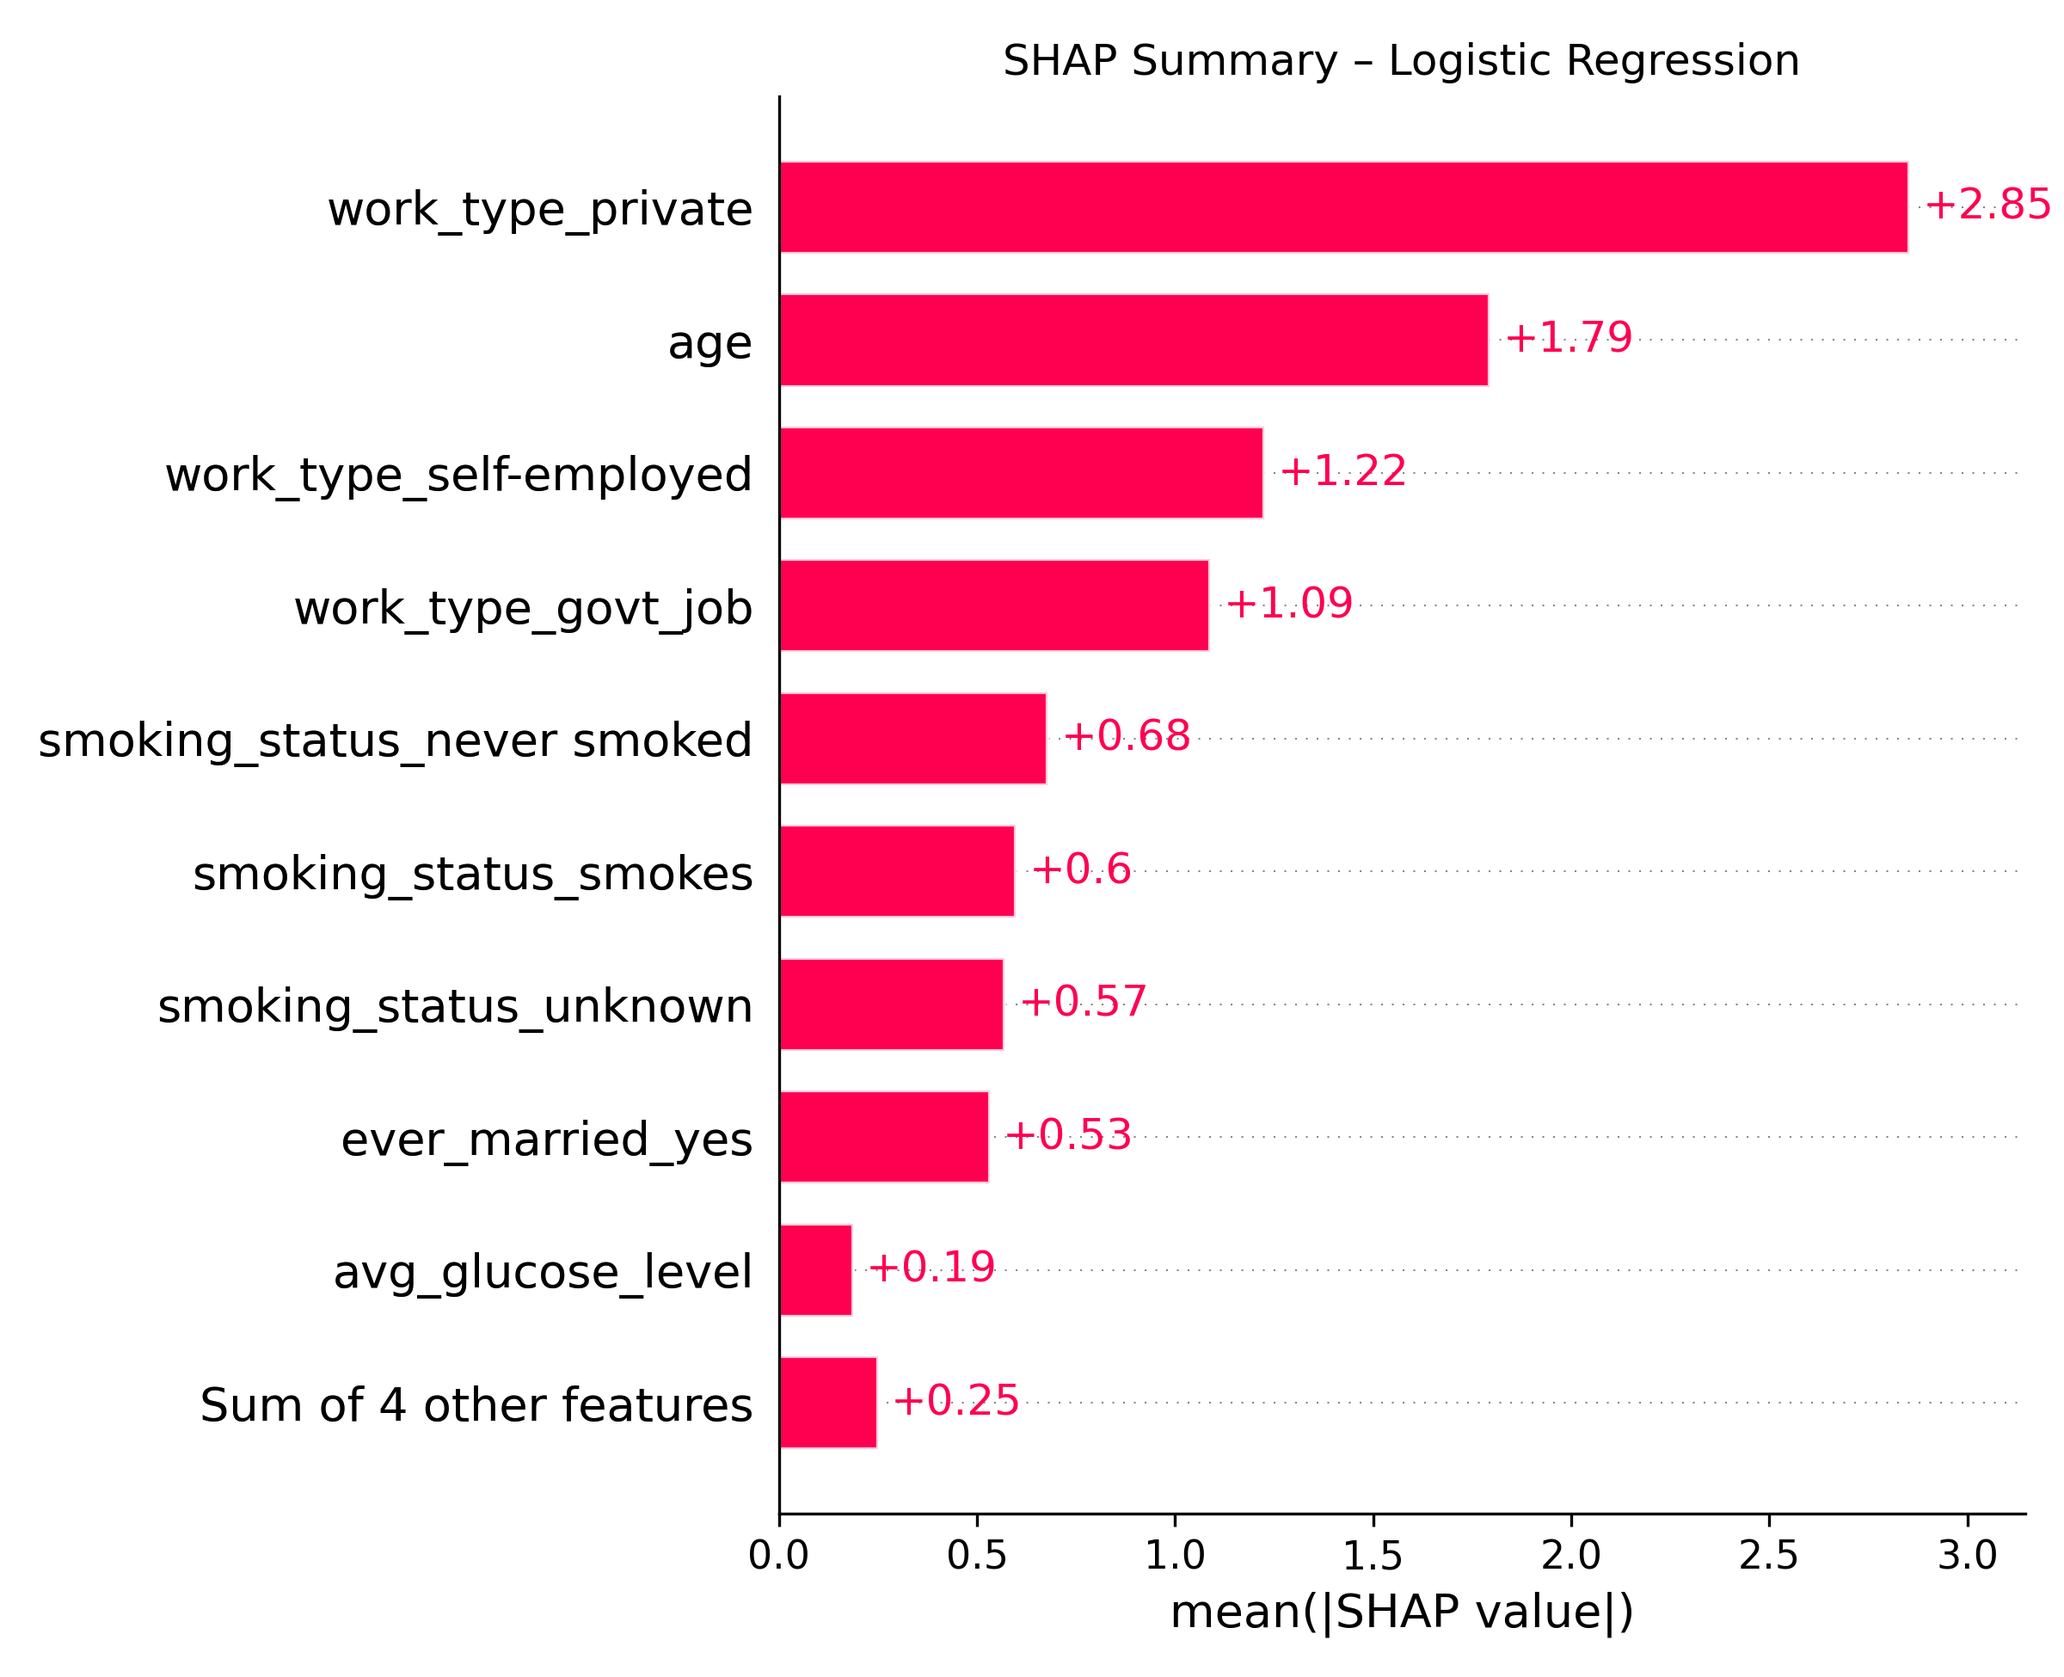
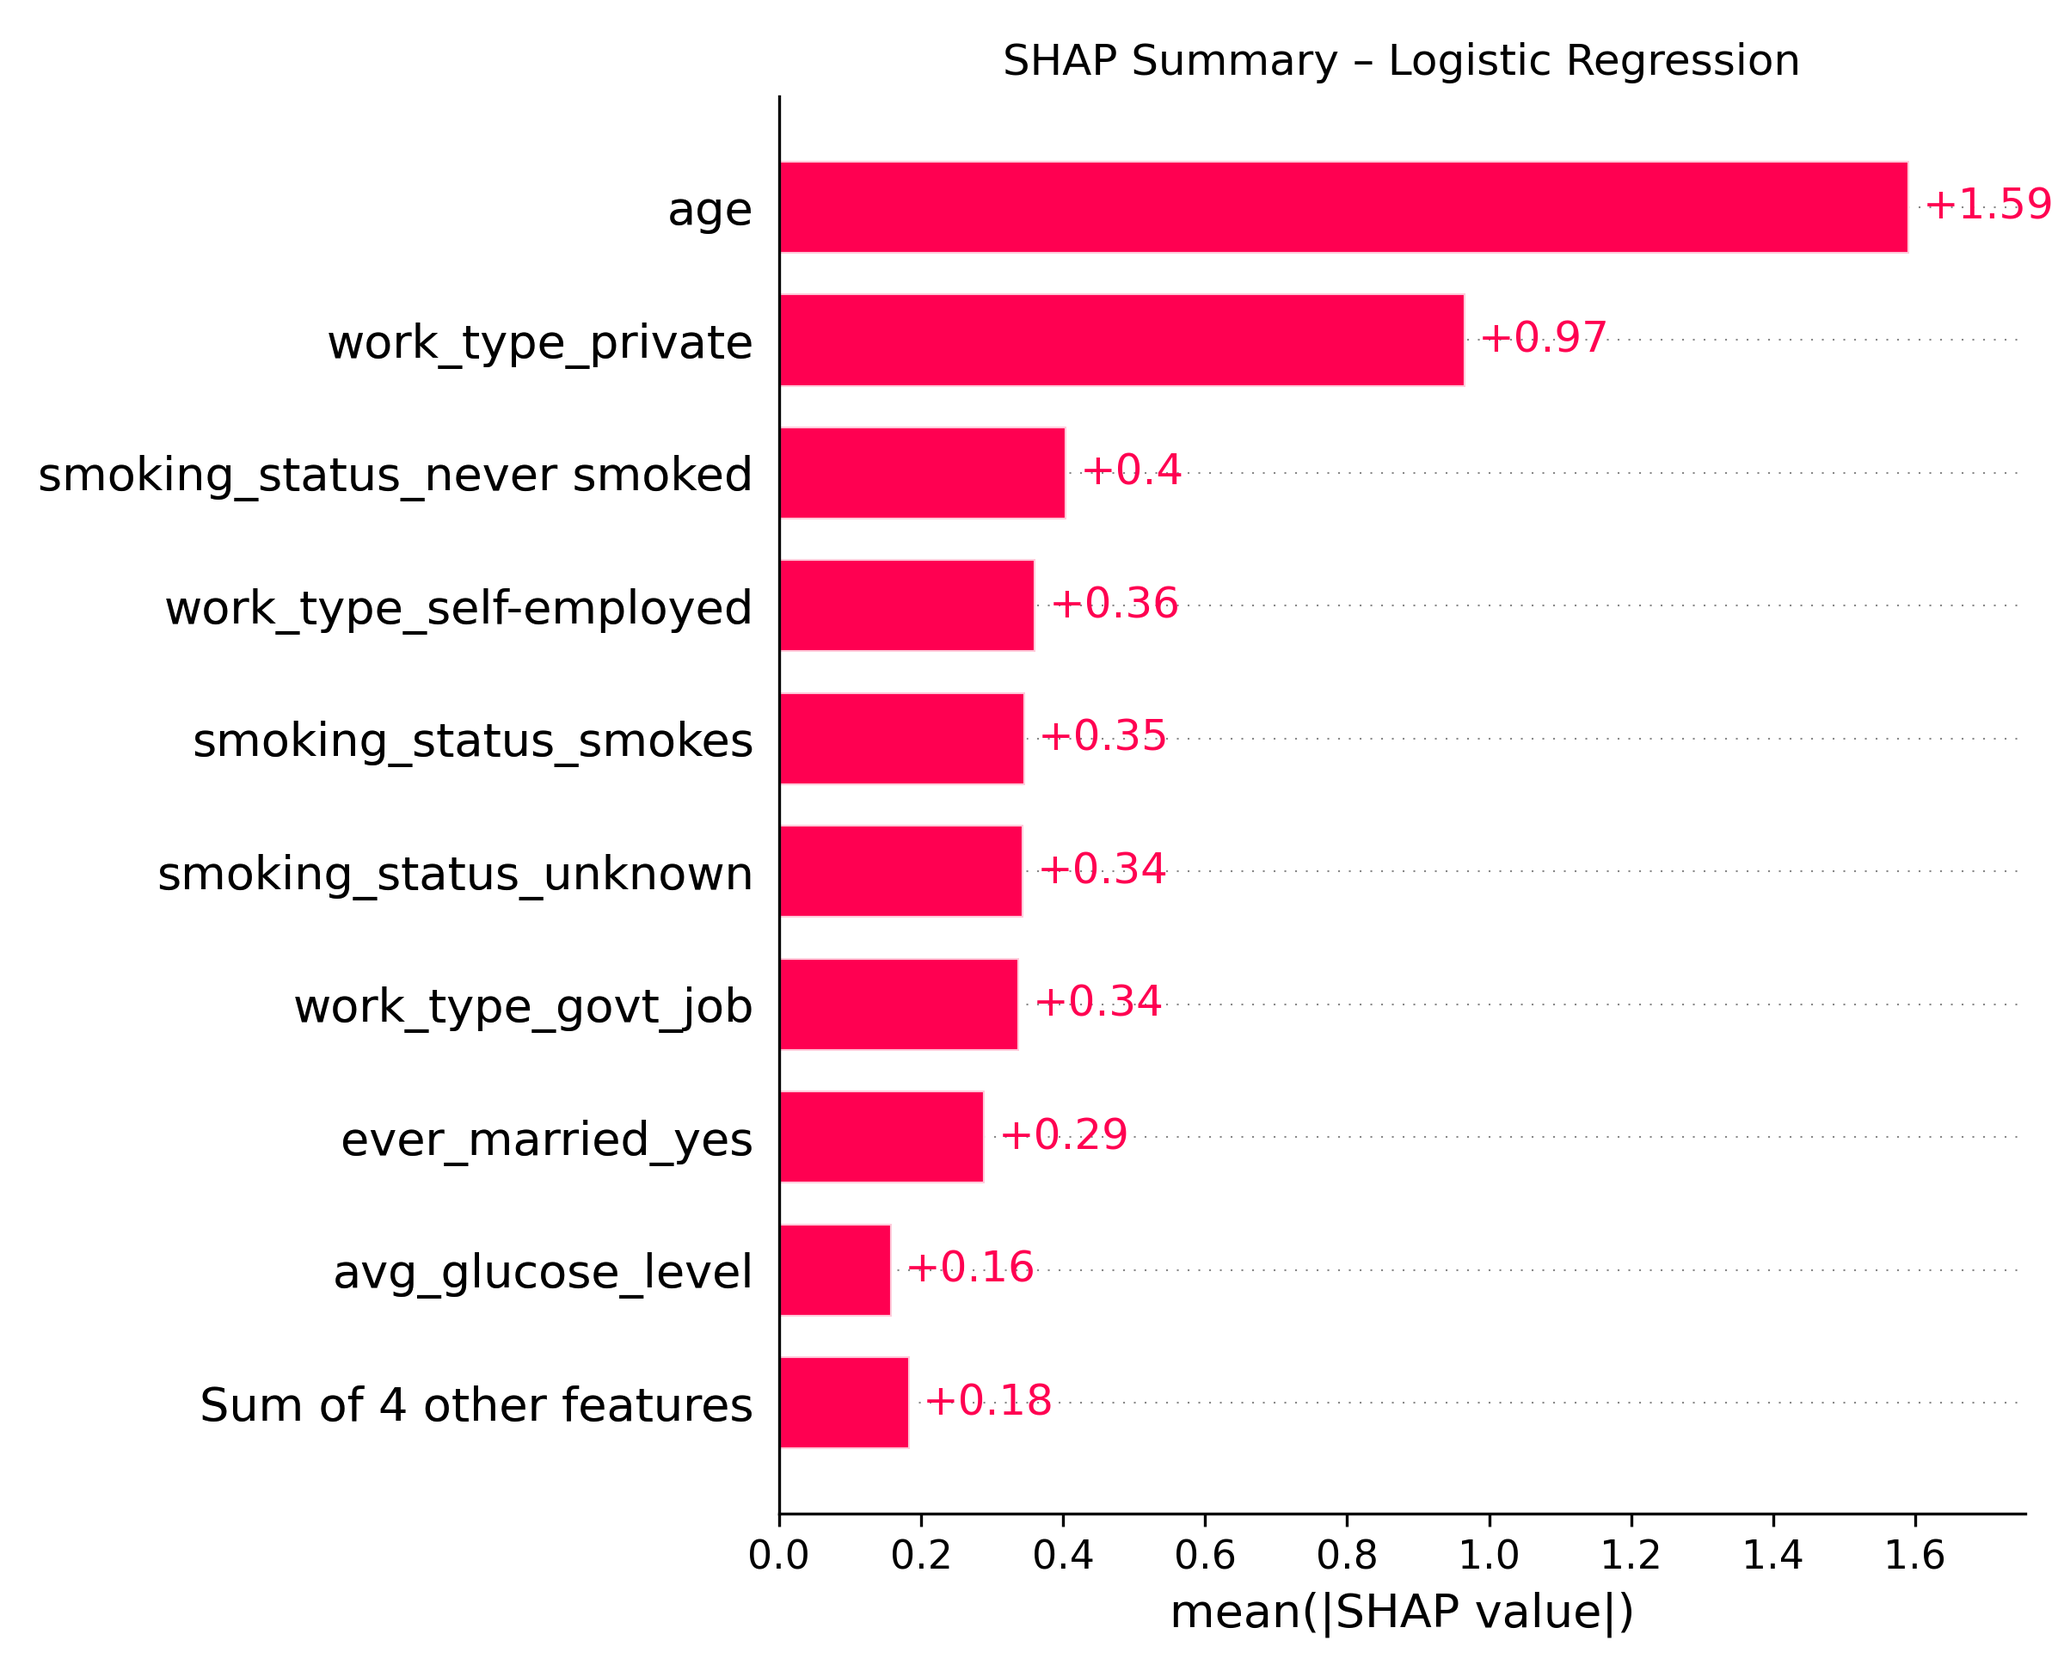
Xgboost model trianing and tuning accomplished. KNN model trianig and tuning accomplished.

diff --git a/src/training/train_xgboost.py b/src/training/train_xgboost.py
@@ -1,0 +1,150 @@
+from preprocessing.data_preprocessing import preprocess_data
+from sklearn.metrics import make_scorer, fbeta_score, classification_report, roc_auc_score, precision_recall_curve, confusion_matrix, ConfusionMatrixDisplay
+from sklearn.model_selection import StratifiedKFold
+from skopt import BayesSearchCV
+from skopt.space import Integer, Real
+from xgboost import XGBClassifier
+import shap
+import joblib
+import matplotlib.pyplot as plt
+import numpy as np
+import os
+import pandas as pd
+
+
+def tune_model_bayes(X_train, y_train):
+    f2_scorer = make_scorer(fbeta_score, beta=2)
+
+    search_space = {
+        'n_estimators': Integer(50, 300),
+        'max_depth': Integer(3, 10),
+        'learning_rate': Real(0.01, 0.3, prior='log-uniform'),
+        'subsample': Real(0.6, 1.0),
+        'colsample_bytree': Real(0.6, 1.0),
+        'gamma': Real(0, 5),
+        'reg_lambda': Real(0, 10),
+        'scale_pos_weight': Real(1, 10),
+    }
+
+    xgb = XGBClassifier(
+        objective='binary:logistic',
+        use_label_encoder=False,
+        eval_metric='logloss',
+        random_state=42
+    )
+
+    opt = BayesSearchCV(
+        estimator=xgb,
+        search_spaces=search_space,
+        n_iter=30,
+        scoring=f2_scorer,
+        cv=StratifiedKFold(n_splits=5),
+        n_jobs=-1,
+        verbose=2,
+        random_state=42
+    )
+    
+    opt.fit(X_train, y_train)
+
+    print("\n Best Hyperparameters (XGBoost):")
+    print(opt.best_params_)
+    print(f"Best F2 Score (CV): {opt.best_score_:.4f}")
+
+    return opt.best_estimator_
+
+
+def evaluate_tuned_xgb(model, X_test, y_test, threshold=0.3):
+    y_prob = model.predict_proba(X_test)[:, 1]
+    y_pred = (y_prob > threshold).astype(int)
+    
+    threshold = 0.24
+    y_pred = (y_prob > threshold).astype(int)
+
+    print("\nBayes-Tuned XGBoost Evaluation:")
+    print(classification_report(y_test, y_pred, digits=3))
+    print("ROC AUC:", roc_auc_score(y_test, y_prob))
+
+    cm = confusion_matrix(y_test, y_pred)
+    disp = ConfusionMatrixDisplay(confusion_matrix=cm, display_labels=["No Stroke", "Stroke"])
+    disp.plot(cmap="Blues")
+    plt.title("Confusion Matrix – XGBoost (Bayes Tuned)")
+    plt.tight_layout()
+    os.makedirs("../../outputs/figures", exist_ok=True)
+    plt.savefig("../../outputs/figures/confusion_matrix_xgb.png", dpi=300)
+    plt.show()
+    plt.close()
+
+    precision, recall, thresholds = precision_recall_curve(y_test, y_prob)
+    plt.figure(figsize=(8, 5))
+    plt.plot(thresholds, precision[:-1], label='Precision', color='blue')
+    plt.plot(thresholds, recall[:-1], label='Recall', color='orange')
+    plt.xlabel("Threshold")
+    plt.ylabel("Score")
+    plt.title("Precision-Recall Tradeoff – XGBoost (Bayes Tuned)")
+    plt.legend()
+    plt.grid(True)
+    plt.tight_layout()
+    plt.savefig("../../outputs/figures/precision_recall_curve_xgb.png", dpi=300)
+    plt.show()
+    plt.close()
+
+    X_test_float = X_test.copy().astype("float64")
+    explainer = shap.Explainer(model, X_test_float)
+    shap_values = explainer(X_test_float)
+
+    plt.figure()
+    shap.plots.bar(shap_values, show=False)
+    plt.title("SHAP Summary – XGBoost (Bayes Tuned)")
+    plt.tight_layout()
+    plt.savefig("../../outputs/figures/shap_summary_xgb.png", dpi=300)
+    plt.show()
+    plt.close()
+
+    plt.figure()
+    shap.plots.waterfall(shap_values[0], show=False)
+    plt.title("SHAP Waterfall – XGBoost Sample (Index 0)")
+    plt.tight_layout()
+    plt.savefig("../../outputs/figures/shap_waterfall_xgb.png", dpi=300)
+    plt.show()
+    plt.close()
+
+    joblib.dump(model, "../../models/xgboost_bayes.pkl")
+    print("XGBoost Bayes model saved to /models/xgboost_bayes.pkl")
+
+
+def train_model(X_train, y_train):
+    return tune_model_bayes(X_train, y_train)
+
+def find_best_f2_threshold(y_true, y_prob):
+    best_thresh, best_f2 = 0.0, 0.0
+    for t in np.arange(0.05, 0.95, 0.01):
+        y_pred = (y_prob >= t).astype(int)
+        f2 = fbeta_score(y_true, y_pred, beta=2)
+        if f2 > best_f2:
+            best_thresh, best_f2 = t, f2
+    return best_thresh, best_f2
+
+
+def train_xgboost_model():
+    X_train, X_test, y_train, y_test = preprocess_data()
+    print("Starting XGBoost hyperparameter optimization...")
+    
+    model = train_model(X_train, y_train)
+    
+    print("Evaluating tuned model...")
+    
+    # Get predicted probabilities
+    y_prob = model.predict_proba(X_test)[:, 1]
+    
+    # Find best F2 threshold
+    best_thresh, best_f2 = find_best_f2_threshold(y_test, y_prob)
+    print(f"\nBest Threshold for F2: {best_thresh:.2f} (F2 = {best_f2:.4f})")
+    
+    # Evaluate at that threshold
+    evaluate_tuned_xgb(model, X_test, y_test, threshold=best_thresh)
+
+
+
+
+if __name__ == '__main__':
+    train_xgboost_model()

diff --git a/src/training/train_knn.py b/src/training/train_knn.py
@@ -1,0 +1,126 @@
+"""
+train_knn.py
+
+Trains and evaluates a K-Nearest Neighbors (KNN) model for stroke prediction.
+
+This script performs preprocessing, normalization, model training,
+evaluation using classification metrics and ROC AUC, and visualizes
+and saves the confusion matrix. It also persists the trained KNN model
+and the fitted scaler for reproducibility and deployment.
+"""
+
+from preprocessing.data_preprocessing import preprocess_data_knn
+from skopt import BayesSearchCV
+from skopt.space import Integer, Categorical
+from sklearn.model_selection import StratifiedKFold
+from sklearn.metrics import make_scorer, fbeta_score
+from sklearn.neighbors import KNeighborsClassifier
+from sklearn.metrics import classification_report, roc_auc_score
+from sklearn.metrics import confusion_matrix, ConfusionMatrixDisplay
+from sklearn.metrics import precision_recall_curve
+import matplotlib.pyplot as plt
+import os
+import numpy as np
+
+
+def evaluate_knn_model(model, X_test, y_test, threshold=0.5):
+    """
+    Evaluates a trained KNN model on the test set using a specified threshold.
+    
+    Args:
+        model: Trained KNN model.
+        X_test (pd.DataFrame or np.ndarray): Scaled test features.
+        y_test (pd.Series or np.ndarray): True test labels.
+        threshold (float): Classification threshold for predicting stroke.
+    
+    Saves:
+        Confusion matrix plot to /outputs/figures/
+    """
+    y_prob = model.predict_proba(X_test)[:, 1]
+    y_pred = (y_prob >= threshold).astype(int)
+
+    print(f"\n📊 KNN Evaluation @ Threshold = {threshold}")
+    print(classification_report(y_test, y_pred, digits=3))
+    print("ROC AUC:", roc_auc_score(y_test, y_prob))
+
+    cm = confusion_matrix(y_test, y_pred)
+    disp = ConfusionMatrixDisplay(confusion_matrix=cm, display_labels=["No Stroke", "Stroke"])
+    disp.plot(cmap="Blues")
+    plt.title(f"Confusion Matrix – KNN (Threshold = {threshold})")
+    plt.tight_layout()
+    os.makedirs("../../outputs/figures", exist_ok=True)
+    plt.savefig(f"../../outputs/figures/confusion_matrix_knn_thresh_{threshold}.png", dpi=300)
+    plt.show()
+    plt.close()
+    
+def tune_model_bayes(X_train, y_train):
+    """
+    Tunes KNN using Bayesian Optimization (BayesSearchCV) with F2 as the scoring metric.
+    """
+    f2_scorer = make_scorer(fbeta_score, beta=2)
+
+    search_space = {
+        'n_neighbors': Integer(3, 25),
+        'weights': Categorical(['uniform', 'distance']),
+        'metric': Categorical(['euclidean', 'manhattan']),
+    }
+
+    knn = KNeighborsClassifier()
+
+    opt = BayesSearchCV(
+        estimator=knn,
+        search_spaces=search_space,
+        scoring=f2_scorer,
+        cv=StratifiedKFold(n_splits=5),
+        n_iter=30,
+        n_jobs=-1,
+        verbose=2,
+        random_state=42
+    )
+
+    tuned_model = opt.fit(X_train, y_train)
+
+    print("\n✅ Best Hyperparameters (KNN):")
+    print(opt.best_params_)
+    print(f"Best F2 Score (CV): {opt.best_score_:.4f}")
+
+    return tuned_model
+
+def plot_precision_recall_curve(y_test, y_prob, model_name="KNN"):
+    """
+    Plots and saves the precision-recall curve for a given model.
+    
+    Args:
+        y_test (array): True labels
+        y_prob (array): Predicted probabilities for class 1
+        model_name (str): Model name to use in title and filename
+    """
+    precision, recall, thresholds = precision_recall_curve(y_test, y_prob)
+
+    plt.figure(figsize=(8, 5))
+    plt.plot(thresholds, precision[:-1], label="Precision", color="blue")
+    plt.plot(thresholds, recall[:-1], label="Recall", color="orange")
+    plt.xlabel("Threshold")
+    plt.ylabel("Score")
+    plt.title(f"Precision-Recall Tradeoff – {model_name}")
+    plt.legend()
+    plt.grid(True)
+    plt.tight_layout()
+    
+    os.makedirs("../../outputs/figures", exist_ok=True)
+    plt.savefig(f"../../outputs/figures/precision_recall_curve_{model_name.lower()}.png", dpi=300)
+    plt.show()
+    plt.close()
+
+def train_knn_model():
+    """ """
+    X_train, X_test, y_train, y_test, scaler = preprocess_data_knn()
+    model = tune_model_bayes(X_train, y_train)
+    evaluate_knn_model(model, X_test, y_test, threshold=0.3)
+    # Get predicted probabilities
+    y_prob = model.predict_proba(X_test)[:, 1]
+    plot_precision_recall_curve(y_test, y_prob, model_name="KNN")
+
+
+if __name__ == '__main__':
+    train_knn_model()

diff --git a/src/training/train_logistic_regression.py b/src/training/train_logistic_regression.py
@@ -15,6 +15,10 @@ from sklearn.linear_model import LogisticRegression
 from sklearn.metrics import classification_report, roc_auc_score, precision_score, recall_score
 from sklearn.metrics import confusion_matrix, ConfusionMatrixDisplay
 from sklearn.metrics import precision_recall_curve
+from skopt import BayesSearchCV
+from skopt.space import Real, Categorical
+from sklearn.model_selection import StratifiedKFold
+from sklearn.metrics import make_scorer, fbeta_score
 import matplotlib.pyplot as plt 
 import pandas as pd 
 import joblib 
@@ -150,37 +154,86 @@ def explain_model_with_shap(model, X_test):
 
     print("SHAP summary and waterfall plots saved.")
  
+def tune_logistic_regression_bayes(X_train, y_train):
+    """
+    Runs BayesSearchCV to find the best hyperparameters for Logistic Regression.
+    Returns the tuned model.
+    """
+    f2_scorer = make_scorer(fbeta_score, beta=2)
+
+    search_space = {
+        'C': Real(1e-3, 100.0, prior='log-uniform'),
+        'penalty': Categorical(['l2']),
+        'solver': Categorical(['lbfgs', 'saga']),
+        'max_iter': [1000]
+    }
+
+    base_model = LogisticRegression(class_weight='balanced', random_state=42)
+
+    opt = BayesSearchCV(
+        estimator=base_model,
+        search_spaces=search_space,
+        scoring=f2_scorer,
+        cv=StratifiedKFold(n_splits=5),
+        n_iter=30,
+        n_jobs=-1,
+        random_state=42,
+        verbose=2
+    )
+
+    opt.fit(X_train, y_train)
+
+    print("\n✅ Best Hyperparameters (LogReg):")
+    print(opt.best_params_)
+    print(f"Best F2 Score (CV): {opt.best_score_:.4f}")
+
+    return opt.best_estimator_
+
 
 def train_logistic_regression_model():
     """
-    Orchestrates the preprocessing, training, evaluation, and saving 
-    of the Logistic Regression model for stroke risk prediction.
+    Orchestrates preprocessing, manual training, and Bayesian tuning 
+    of the Logistic Regression model for stroke classification.
 
-    Loads preprocessed data, trains the model, prints performance metrics, 
-    saves the confusion matrix and trained model.
+    Saves evaluation metrics, visualizations, and model artifacts for both versions.
     """
-    # Retrieve training and test data splits
     X_train, X_test, y_train, y_test = preprocess_data()
-    
+
     print(f"X_train shape: {X_train.shape}")
     print(f"X_test shape: {X_test.shape}")
     print(f"y_train distribution:\n{y_train.value_counts(normalize=True)}")
     print(f"y_test distribution:\n{y_test.value_counts(normalize=True)}")    
-    
+
+    # Step 1 – Manual Logistic Regression (LRv2)
     model, y_pred, y_prob = train_model(X_train, y_train, X_test, y_test)
-    
     create_confusion_matrix(y_test, y_pred)
-    
     plot_precision_recall_curve(y_test, y_prob)
-    
     explain_model_with_shap(model, X_test)
-    
-    os.makedirs("../../models", exist_ok=True)
-    
     joblib.dump(model, "../../models/logistic_regression_v2_model.pkl")
-    print("Logistic Regression Model saved to /models")
+    print("Manual Logistic Regression model saved to /models/logistic_regression_v2_model.pkl")
+
+    # Step 2 – Bayes-Optimized Logistic Regression (LRv5)
+    print("\n🔄 Beginning Bayesian Optimization...")
+    model = tune_logistic_regression_bayes(X_train, y_train)
+
+    y_prob = model.predict_proba(X_test)[:, 1]
+    threshold = 0.3
+    y_pred = (y_prob > threshold).astype(int)
+
+    print("\n📊 Bayes-Tuned Logistic Regression Evaluation:")
+    print(classification_report(y_test, y_pred, digits=3))
+    print("ROC AUC:", roc_auc_score(y_test, y_prob))
+
+    create_confusion_matrix(y_test, y_pred)
+    plot_precision_recall_curve(y_test, y_prob)
+    explain_model_with_shap(model, X_test)
+
+    joblib.dump(model, "../../models/logistic_regression_bayes.pkl")
+    print("Bayes-Tuned Logistic Regression model saved to /models/logistic_regression_bayes.pkl")
+
+    with open("../../models/column_order_logreg.json", "w") as f:
+        json.dump(list(X_train.columns), f)
     
-    with open("../../models/column_order_logreg.json", "w") as f: json.dump(list(X_train.columns), f)
     
 if __name__ == '__main__':
     train_logistic_regression_model()

diff --git a/src/training/train_rf.py b/src/training/train_rf.py
@@ -237,6 +237,8 @@ def train_bayesian_rf_model():
 
 
 
+
+
 def train_random_forest_model():
     """
     Orchestrates preprocessing, training, evaluation, and saving of 
